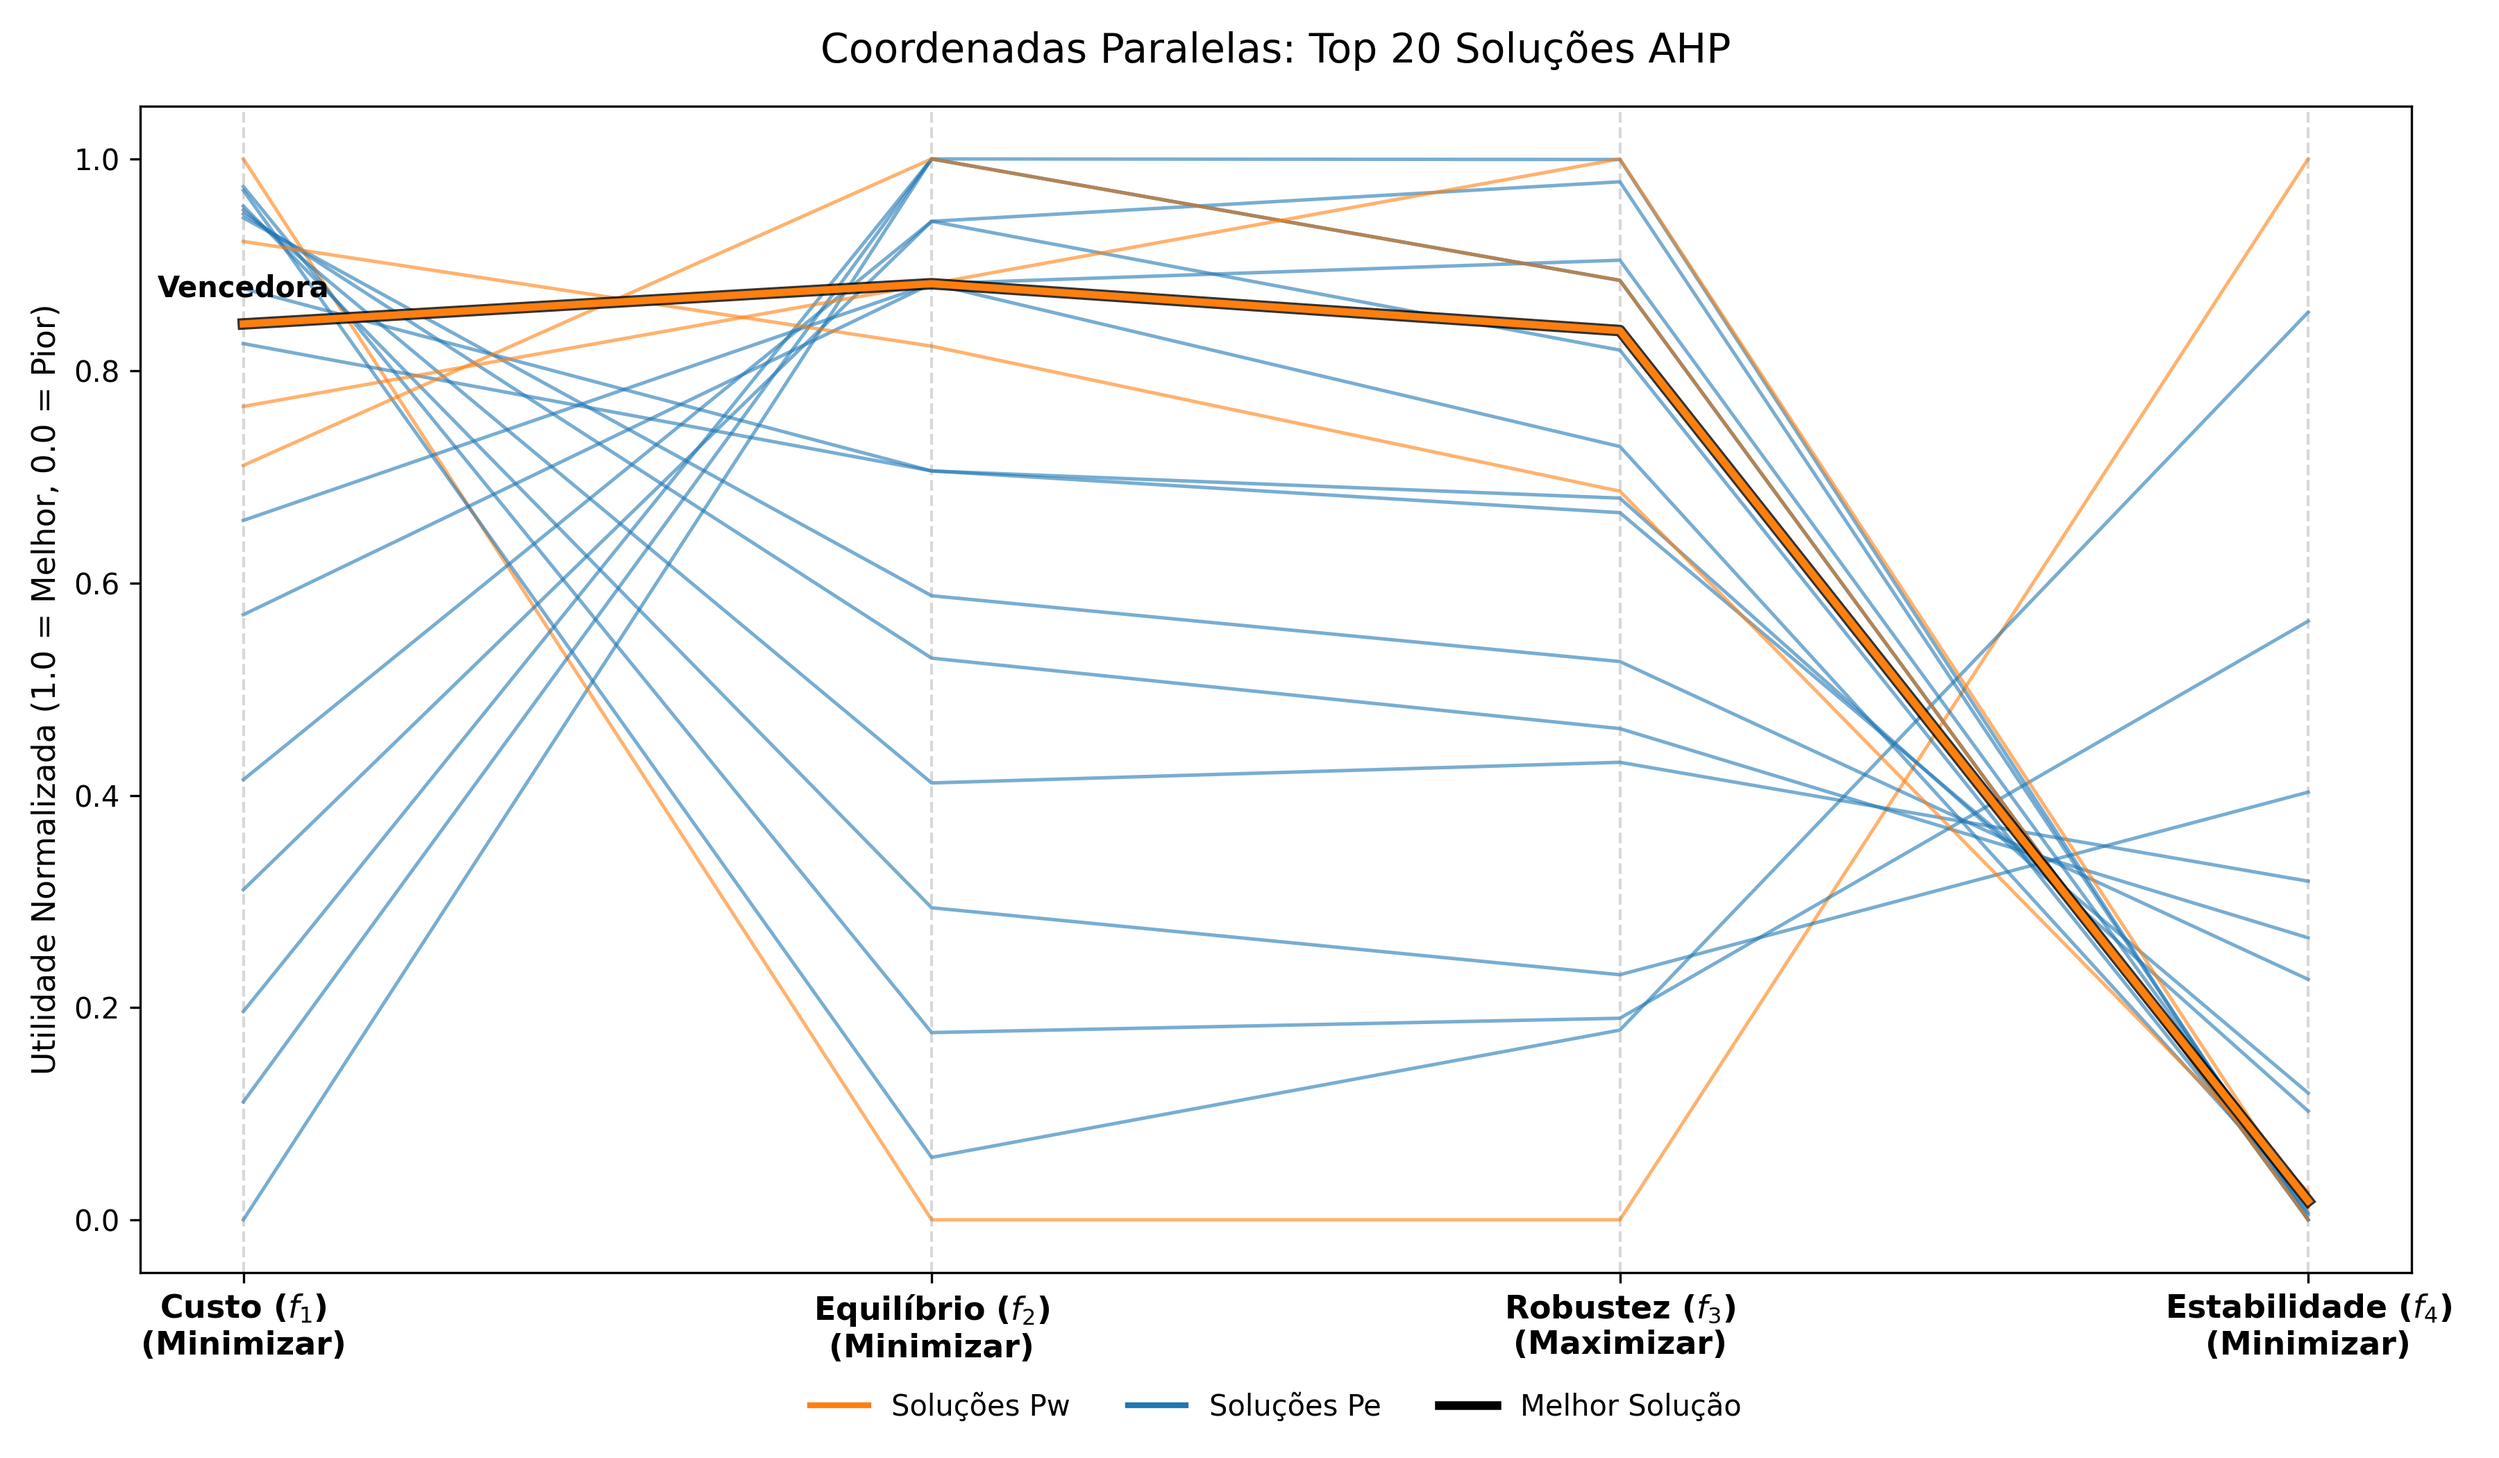
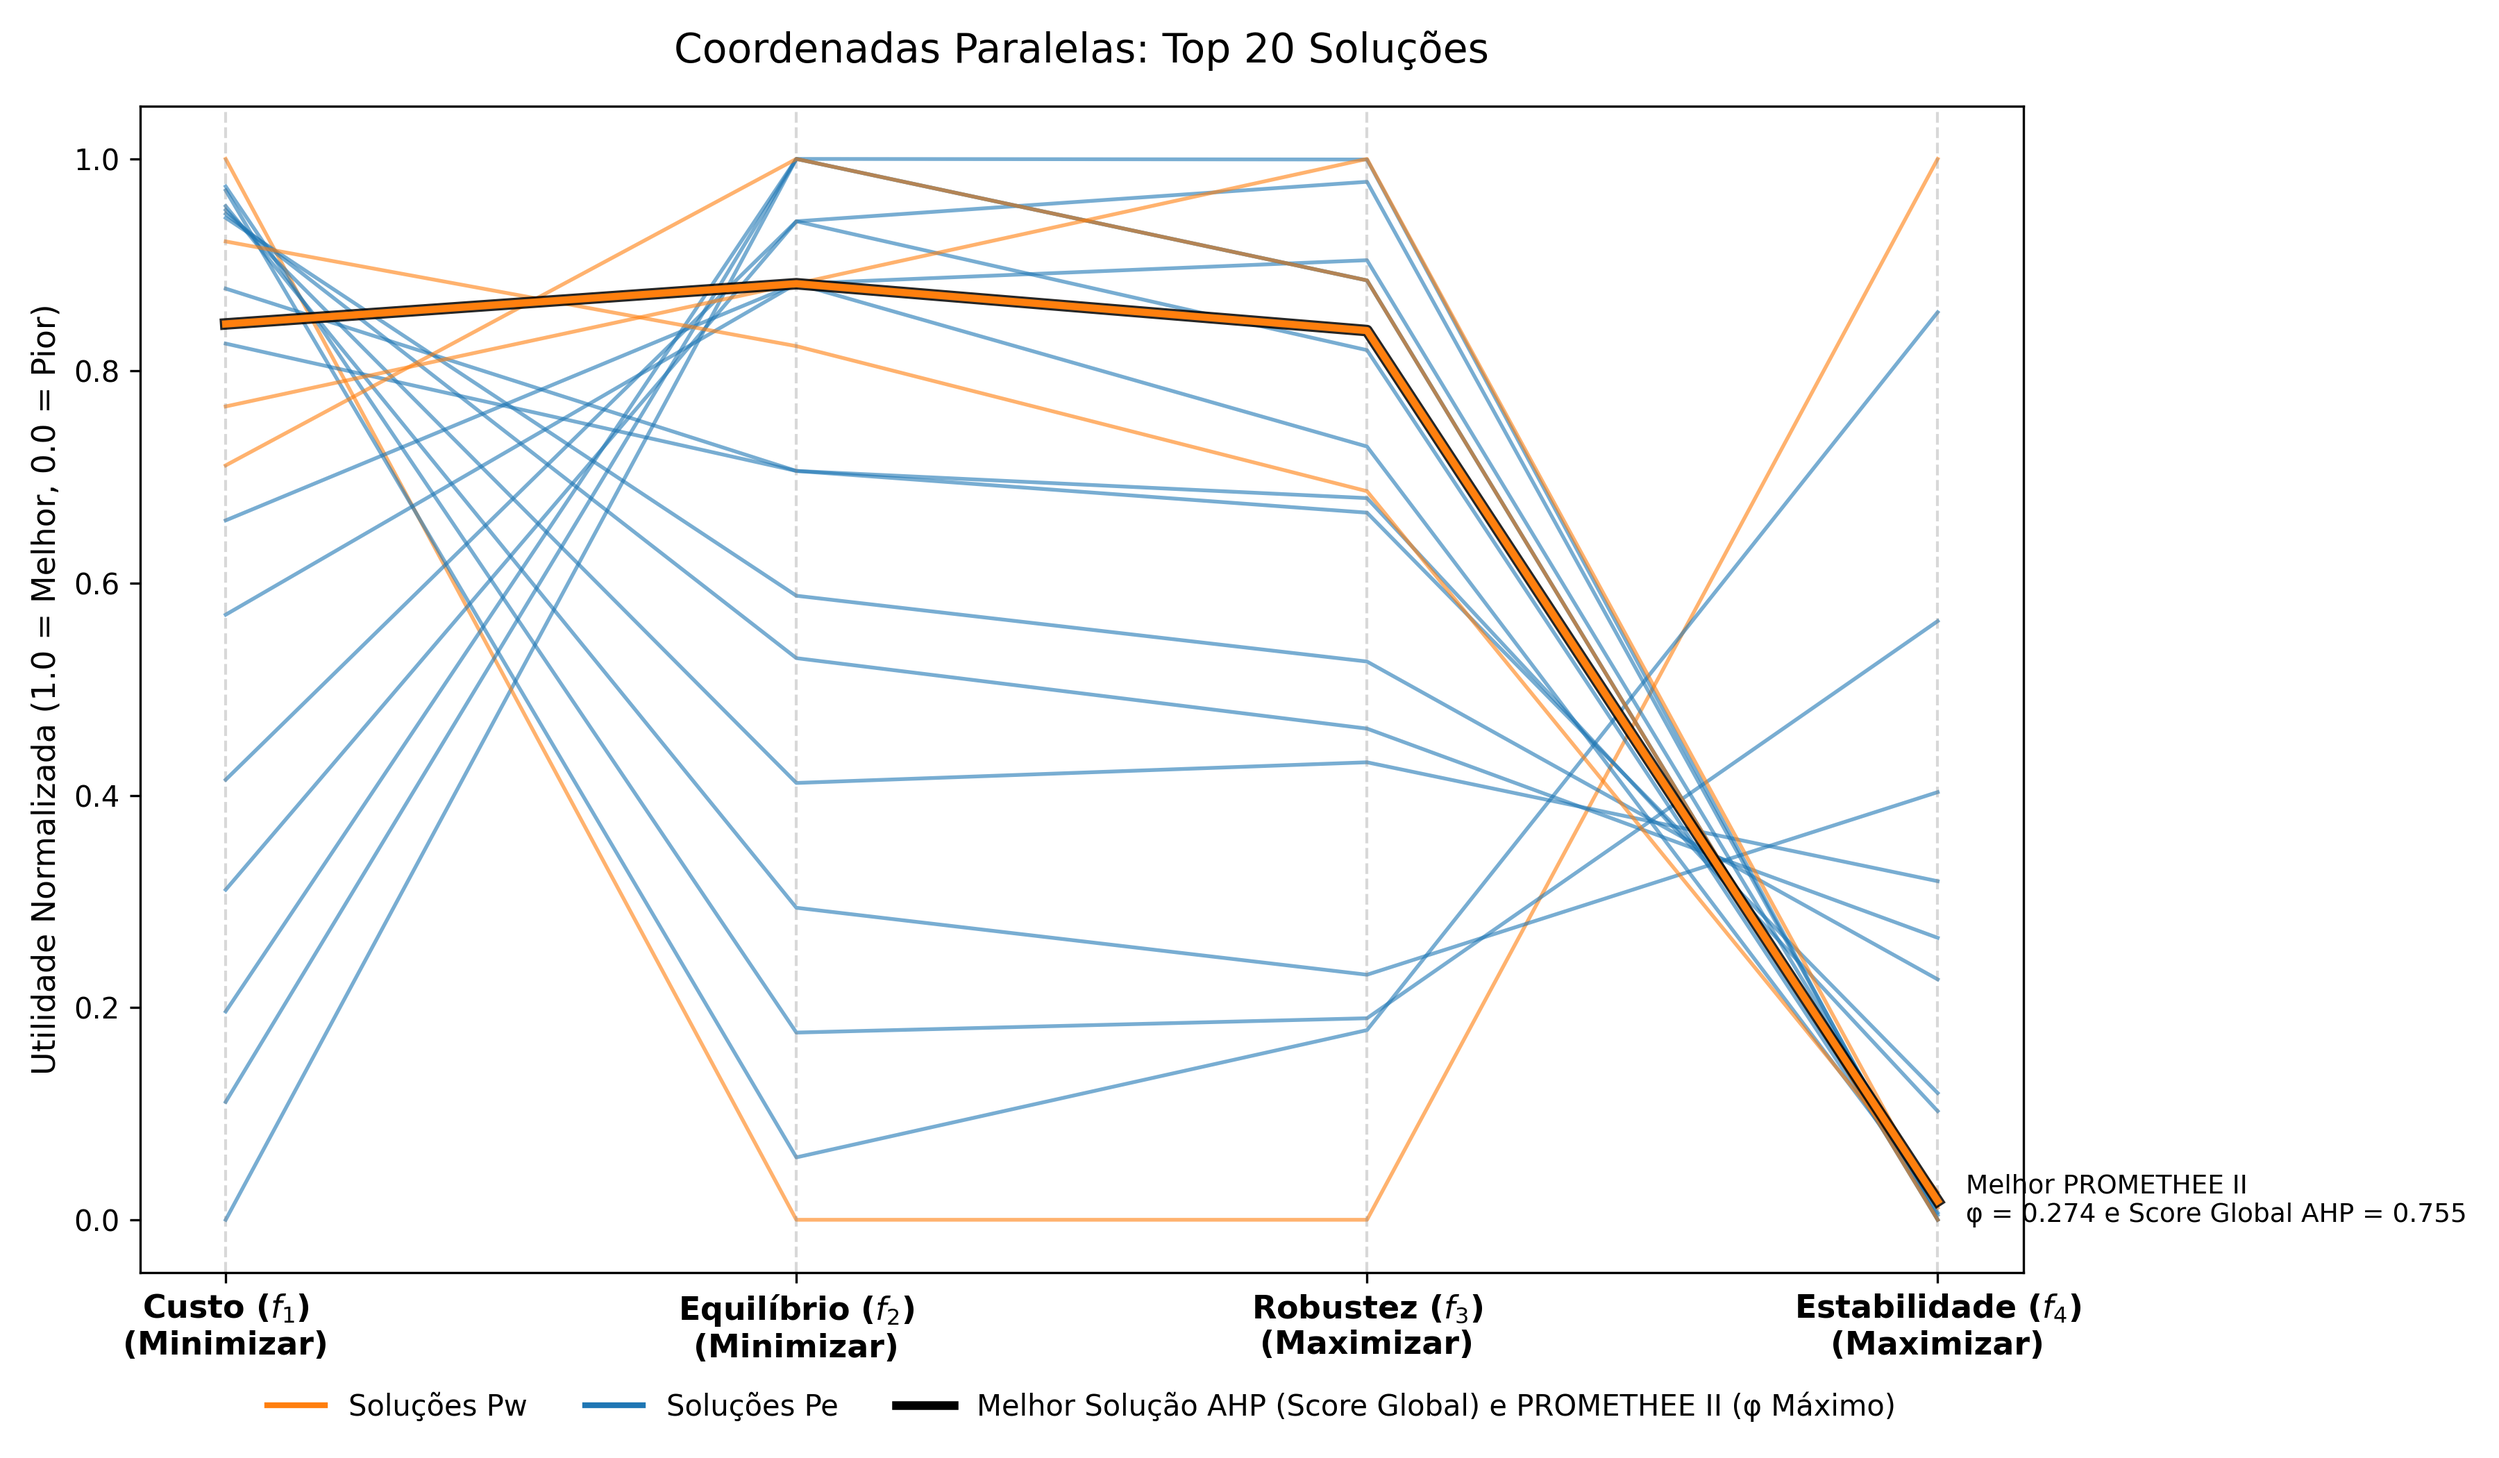
feat: Add parallel coordinates plot for top 8 PROMETHEE II solutions and update related graphics

diff --git a/etapa_9_gerar_paralelo_promethee_ii.py b/etapa_9_gerar_paralelo_promethee_ii.py
@@ -1,0 +1,165 @@
+import pandas as pd
+import numpy as np
+import matplotlib.pyplot as plt
+from matplotlib.lines import Line2D
+
+# ==========================================
+# 1. PREPARAR DADOS: TOP 8 PROMETHEE II
+# ==========================================
+def preparar_dados_top8_promethee(path_csv="tabela_promethee_II.csv"):
+    # Carrega a tabela resultante do PROMETHEE II
+    df = pd.read_csv(path_csv)
+
+    # Conferência de colunas necessárias
+    required_cols = [
+        "Custo Total",
+        "Equilibrio",
+        "Robustez (Norm 0-100)",
+        "Estabilidade (Norm 0-100)",
+        "phi",
+        "origem",        # deve conter 'Pe' ou 'Pw'
+    ]
+    for col in required_cols:
+        if col not in df.columns:
+            raise ValueError(f"Coluna obrigatória '{col}' não encontrada em {path_csv}")
+
+    # Renomeia para nomes internos de trabalho
+    df["f1"] = df["Custo Total"]
+    df["f2"] = df["Equilibrio"]
+    df["f3"] = df["Robustez (Norm 0-100)"]
+    df["f4"] = df["Estabilidade (Norm 0-100)"]
+
+    # Ranges globais para normalização
+    ranges = {}
+    for col in ["f1", "f2", "f3", "f4"]:
+        vmin = df[col].min()
+        vmax = df[col].max()
+        ranges[col] = (vmin, vmax)
+
+    def norm_min(series, col):
+        vmin, vmax = ranges[col]
+        if vmax == vmin:
+            return np.ones_like(series, dtype=float)
+        return (vmax - series) / (vmax - vmin)
+
+    def norm_max(series, col):
+        vmin, vmax = ranges[col]
+        if vmax == vmin:
+            return np.ones_like(series, dtype=float)
+        return (series - vmin) / (vmax - vmin)
+
+    # f1, f2 -> minimizar  |  f3, f4 -> maximizar (já são benefício)
+    df["n_f1"] = norm_min(df["f1"], "f1")
+    df["n_f2"] = norm_min(df["f2"], "f2")
+    df["n_f3"] = norm_max(df["f3"], "f3")
+    df["n_f4"] = norm_max(df["f4"], "f4")
+
+    # Seleciona Top 8 por fluxo líquido φ (PROMETHEE II)
+    df_top = df.sort_values("phi", ascending=False).head(8).reset_index(drop=True)
+
+    return df_top
+
+
+# ==========================================
+# 2. PLOTAGEM EM COORDENADAS PARALELAS
+# ==========================================
+def plot_paralelo_promethee(df_top):
+    fig, ax = plt.subplots(figsize=(12, 7))
+
+    cols_plot = ["n_f1", "n_f2", "n_f3", "n_f4"]
+    labels_eixo = [
+        "Custo ($f_1$)\n(Minimizar)",
+        "Equilíbrio ($f_2$)\n(Minimizar)",
+        "Robustez ($f_3$)\n(Maximizar)",
+        "Estabilidade ($f_4$)\n(Maximizar)",
+    ]
+    x_coords = list(range(len(cols_plot)))
+
+    # Plota de trás pra frente para a melhor (índice 0) ficar por cima
+    for idx in reversed(df_top.index):
+        row = df_top.loc[idx]
+        y_values = [row[c] for c in cols_plot]
+
+        # Cor por método
+        if row["origem"] == "Pw":
+            color = "tab:orange"
+            alpha = 0.6
+        else:  # 'Pe'
+            color = "tab:blue"
+            alpha = 0.6
+
+        # Melhor solução PROMETHEE II (phi máximo)
+        if idx == 0:
+            # Contorno preto grosso
+            ax.plot(
+                x_coords,
+                y_values,
+                color="black",
+                linewidth=4,
+                alpha=0.85,
+                zorder=10,
+            )
+            # Linha colorida por cima
+            ax.plot(
+                x_coords,
+                y_values,
+                color=color,
+                linewidth=2.5,
+                zorder=11,
+            )
+            ax.text(
+                x_coords[-1] + 0.05,
+                y_values[-1],
+                f"Melhor PROMETHEE II\nφ = {row['phi']:.3f} e Score Global AHP = {row['Score_Global']:.3f}",
+                va="center",
+                fontsize=9,
+            )
+        else:
+            ax.plot(
+                x_coords,
+                y_values,
+                color=color,
+                linewidth=1.3,
+                alpha=alpha,
+                zorder=2,
+            )
+
+    # Eixos verticais
+    for x in x_coords:
+        ax.axvline(x, color="gray", linestyle="--", linewidth=1, alpha=0.3)
+
+    ax.set_xticks(x_coords)
+    ax.set_xticklabels(labels_eixo, fontsize=11, fontweight="bold")
+
+    ax.set_ylabel("Utilidade Normalizada (1.0 = Melhor, 0.0 = Pior)", fontsize=11)
+    ax.set_ylim(-0.05, 1.05)
+    ax.set_title("Coordenadas Paralelas: Top 8 Soluções", fontsize=14, pad=15)
+
+    # Legenda
+    legend_elements = [
+        Line2D([0], [0], color="tab:orange", lw=2, label="Soluções Pw"),
+        Line2D([0], [0], color="tab:blue", lw=2, label="Soluções Pe"),
+        Line2D([0], [0], color="black", lw=3, label="Melhor Solução AHP (Score Global) e PROMETHEE II (φ Máximo)"),
+    ]
+    ax.legend(
+        handles=legend_elements,
+        loc="lower center",
+        bbox_to_anchor=(0.5, -0.15),
+        ncol=3,
+        frameon=False,
+    )
+
+    plt.tight_layout()
+    plt.savefig("grafico_paralelo_top8.png", dpi=300)
+    print("Gráfico salvo: grafico_paralelo_top8.png")
+
+
+# ==========================================
+# 3. MAIN
+# ==========================================
+if __name__ == "__main__":
+    df_top8 = preparar_dados_top8_promethee()
+    print("Top 8 Soluções para conferência:")
+    print(df_top8[["Custo Total", "Equilibrio", "Robustez (Norm 0-100)",
+                   "Estabilidade (Norm 0-100)", "phi", "origem"]])
+    plot_paralelo_promethee(df_top8)
